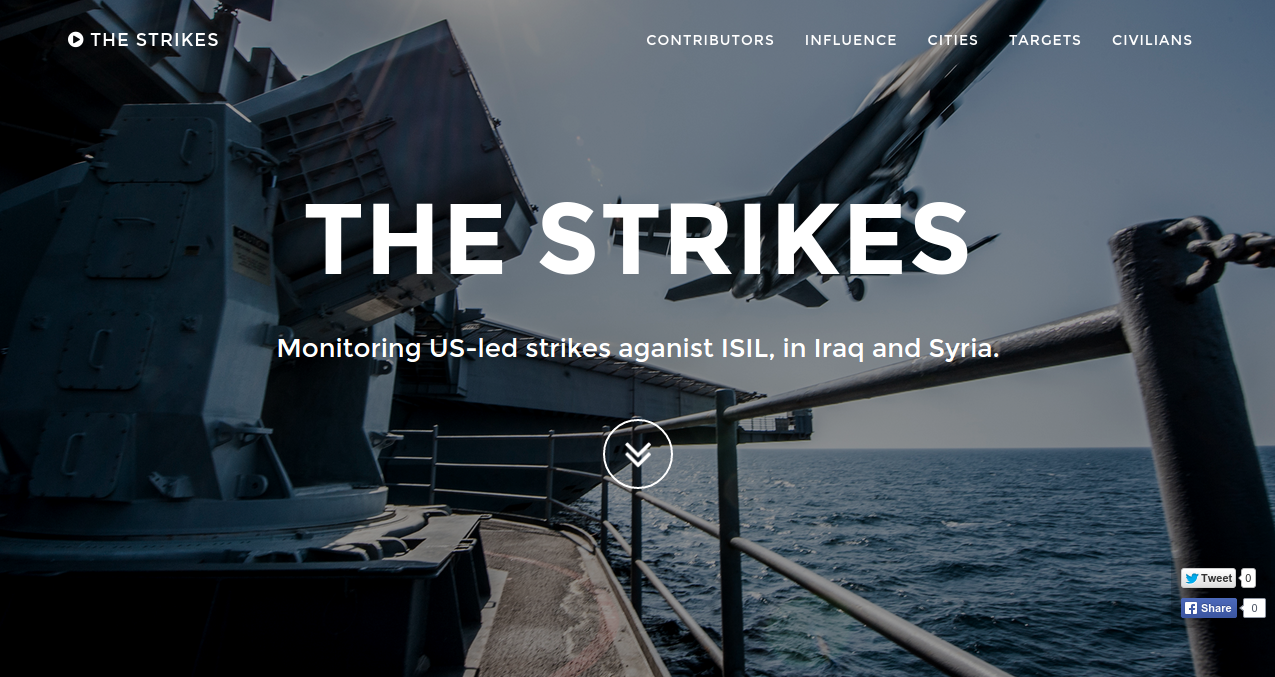
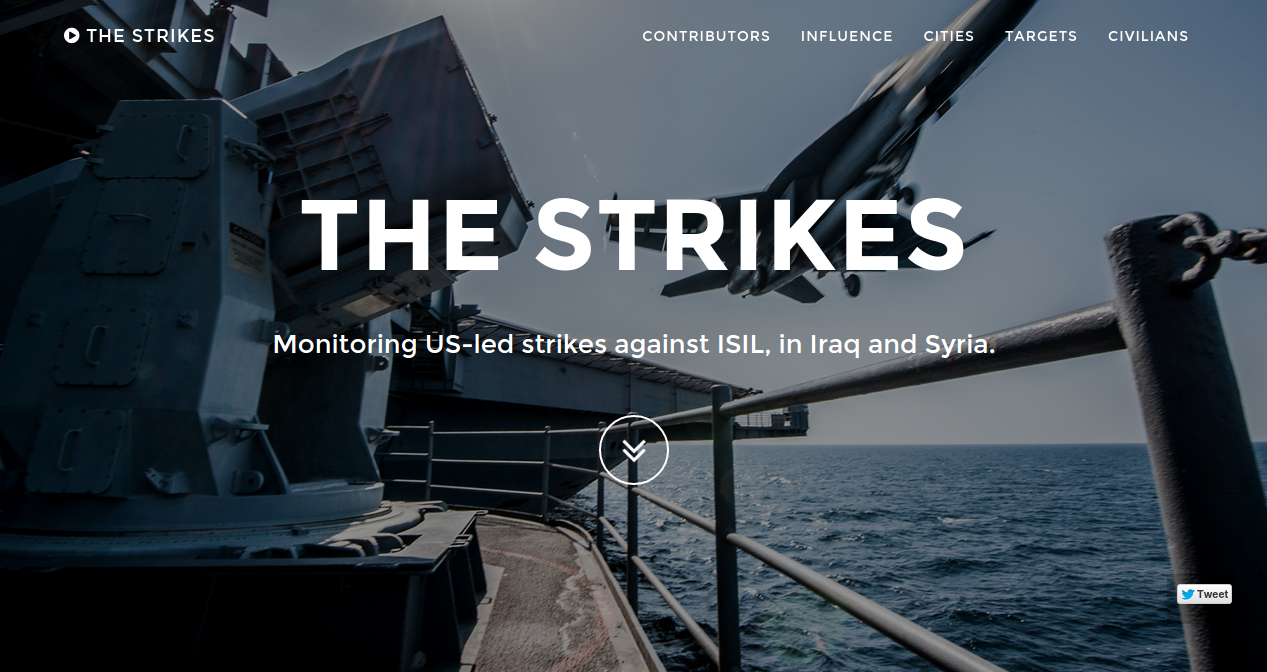
[FIX] fixing typo

diff --git a/the-strikes/index.html b/the-strikes/index.html
@@ -145,7 +145,7 @@
                 <div class="row">
                     <div class="col-md-8 col-md-offset-2">
                         <h1 class="brand-heading">The Strikes</h1>
-                        <p class="intro-text">Monitoring US-led strikes aganist ISIL, in Iraq and Syria.</p>
+                        <p class="intro-text">Monitoring US-led strikes against ISIL, in Iraq and Syria.</p>
                         <a href="#contributors" class="btn btn-circle page-scroll start-arrow">
                             <i class="fa fa-angle-double-down animated"></i>
                         </a>
